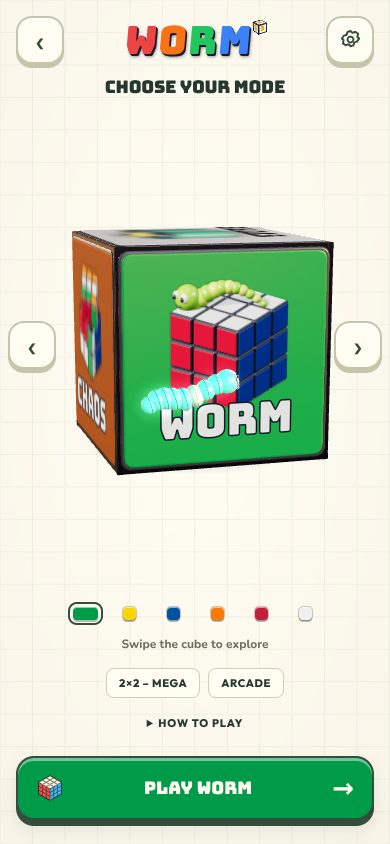
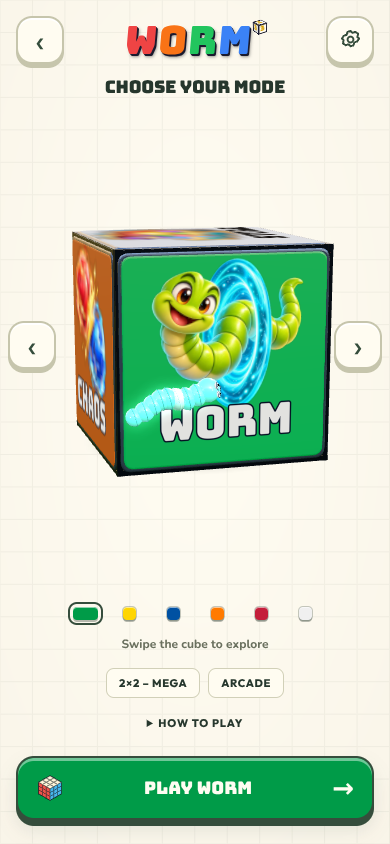
Replace carousel decals with distinct character illustrations

Changed region(s): [[0.1846, 0.2464, 0.8615, 0.5853]]

diff --git a/src/3d/modePlateArtwork.js b/src/3d/modePlateArtwork.js
@@ -20,7 +20,7 @@ export function createModePlateArtwork(mode, ink) {
   }
   const texture = new THREE.CanvasTexture(canvas);
   texture.colorSpace = THREE.SRGBColorSpace;
-  // Decals are rendered from real cubies and legal moves (scripts/carousel-art).
+  // Each mode has its own transparent character/object illustration.
   // They stay ON the live mesh, turning and diving with the carousel cube.
   // Keep the vector underneath until loading succeeds, including offline visits.
   const asset = { worm: 'worm', freeplay: 'cube', cube: 'teach', chaos: 'chaos', random: 'random', store: 'store' }[mode];

diff --git a/docs/live-cube-carousel.md b/docs/live-cube-carousel.md
@@ -14,25 +14,17 @@ Captured at 390×844 from the running app with the WebGL cube visible.
 
 ## Artwork
 
-All six decals are authored as reproducible Three.js scenes in `scripts/carousel-art/model.js`, then exported as 768×768 transparent WebP. The puzzle stickers come from `makeCubies(3)` and `rotateSliceCubies`; no sticker colors are invented or painted independently.
+Six distinct character/object illustrations are applied as transparent decals to the existing live cube. They use rounded toy forms and a shared colorful palette. None depicts a six-faced puzzle cube or a sticker configuration.
 
 | Mode | Image |
 | --- | --- |
-| WORM | Solved 3×3 with a green worm resting on top |
-| CUBE | Legal three-turn scramble |
-| TEACH | Solved 3×3 with a golden turn arrow |
-| CHAOS | Legal scramble with one intact outer layer partway through a turn |
-| RANDOM | A different legal scramble with two directional arrows |
-| STORE | Gift box with a ribbon; no puzzle stickers |
+| WORM | Green worm curling through a turquoise portal |
+| CUBE | Shallow 3×3 tile puzzle with one tile lifted from its slot |
+| TEACH | Bookworm teacher with glasses and an open book |
+| CHAOS | Red and blue orbs with a golden lightning bolt |
+| RANDOM | Purple magician's hat with colored tiles and shuffle arrows |
+| STORE | Teal treasure chest with a hat, star and colorful orbs |
 
-The recipe lists every completed move. Tests reverse each sequence back to the solved cube, check all 54 stickers and their face normals, and verify that the turning layer contains exactly nine intact cubies. These are decorative mode illustrations, not algorithm instructions.
+Generated with the built-in image generator, one new transparent image per mode. Exact prompts are recorded in `carousel-art-prompts.json`. Original outputs were fitted without cropping to 768×768 RGBA canvases and encoded as WebP at quality 92. The application only loads these six static assets; no generation runs in the client.
 
-To re-render, install the optional authoring browser without changing the project dependencies:
-
-```sh
-npm install --no-save --package-lock=false playwright
-npx playwright install chromium
-node scripts/render-carousel-art.mjs
-```
-
-The exporter also accepts `PLAYWRIGHT_MODULE`, `CHROMIUM_EXECUTABLE` and `CHROMIUM_ARGS` for an existing browser installation. It uses the local Vite base and no remote assets. The renderer and its environment stay outside the application bundle; the live carousel only loads the exported images onto its existing faces.
+The earlier reproducible geometric scenes remain in `scripts/carousel-art/model.js` as an authoring alternative, with tests for their legal cube moves. They do not describe or validate the current illustrations. `scripts/render-carousel-art.mjs` exports those scenes to `output/carousel-geometry/`, so running it cannot overwrite the current decals.
